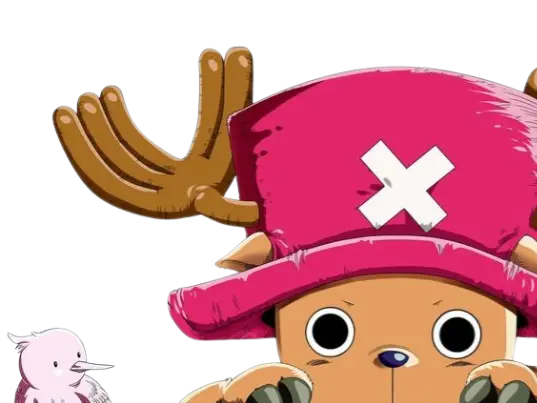
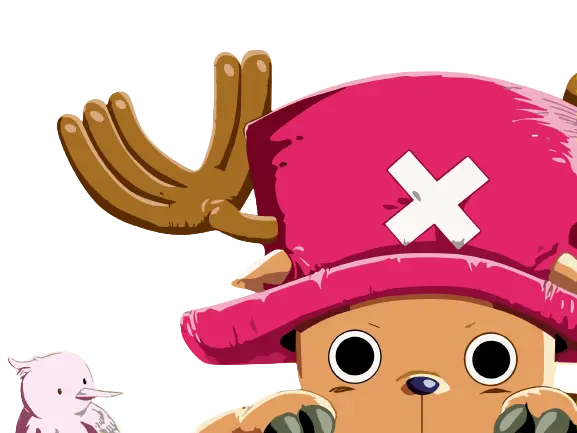
backgd-image

diff --git a/src/assets/components/Pages/HomePage.jsx b/src/assets/components/Pages/HomePage.jsx
@@ -6,6 +6,7 @@ import "./HomePage.css";
 import SearchBox from '../searchbox';
 import Pagechangeoption from '../pagechangeoption';
 import SubHeading from './SubHeading';
+import BackgroundImage from '../BackgroundImage';
 
 function HomePage() {
   const [rrdata, setrrData] = useState([]);
@@ -51,6 +52,7 @@ function HomePage() {
 
   return (
     <>
+      <BackgroundImage/>
       <SearchBox/>
       <SubHeading text={"Top Airing"}/>
       <Pagechangeoption handlePageChange={handlePageChange} Pageno={tapage} setPage={settaPage} Loading={loadingta} setLoading={setLoadingta}/>

diff --git a/src/assets/components/BackgroundImage.jsx b/src/assets/components/BackgroundImage.jsx
@@ -1,0 +1,18 @@
+import React from 'react';
+import './BackgroundImage.css'; // Create this CSS file for styling
+
+const BackgroundImage = () => {
+  return (
+    <div className="background-image-container">
+      <div className="bg-image-div">
+      <img
+        className="background-image"
+        src="./cover.webp"
+        alt="Background"
+      />
+      </div>
+    </div>
+  );
+}
+
+export default BackgroundImage;

diff --git a/src/assets/components/BackgroundImage.css b/src/assets/components/BackgroundImage.css
@@ -1,0 +1,17 @@
+.background-image-container {
+    position: relative;
+    width: 100%;
+    max-width: 100vw; /* Set max width to 50vw for laptop screens */
+    overflow: hidden;
+    display: flex;
+    align-items: end;
+    justify-content: end;
+  }
+  
+  .background-image {
+    width: 100%;
+    height: auto;
+    display: block;
+    object-fit: cover;
+  }
+  

diff --git a/src/assets/components/searchbox.jsx b/src/assets/components/searchbox.jsx
@@ -26,7 +26,7 @@ function SearchBox() {
 
     return (
         <>
-        <div className="container mt-2">
+        <div className="container">
         <form onSubmit={handleSubmit}>
 
         <div className="searchbar">
